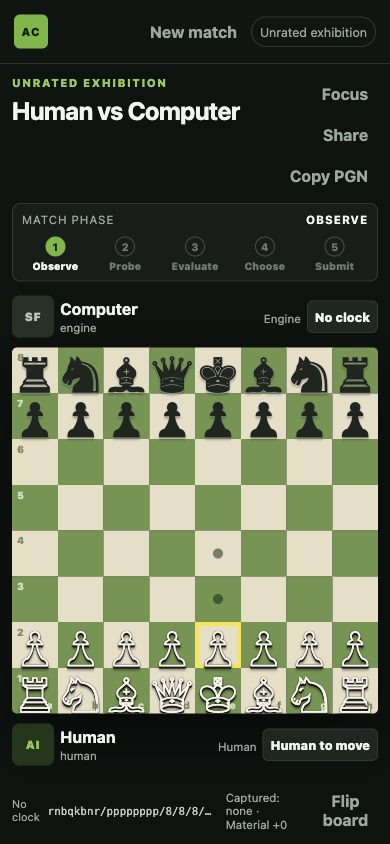
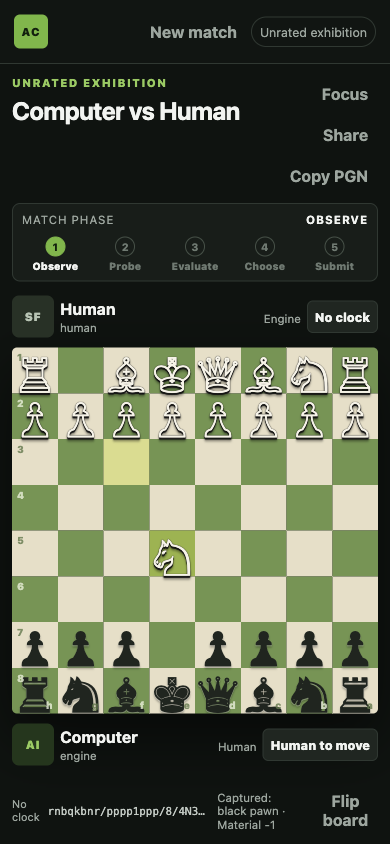
test: capture mobile human black proof

diff --git a/agent-chess-build-packet-v2/docs/validation/core-exhibition-validation.md b/agent-chess-build-packet-v2/docs/validation/core-exhibition-validation.md
@@ -49,7 +49,7 @@ Playwright CLI used snapshots before refs, then local browser checks.
 | Evidence | Viewport / dimensions | Findings |
 | --- | --- | --- |
 | [human-engine-desktop.png](screenshots/human-engine-desktop.png) | 1440x900 image; board 610x610; squares 76.25x76.25; rail 440x820; gap 16px; scrollHeight/clientHeight was not retained for this earlier capture | Square board; `e2` selected; legal targets `e3`, `e4`; phase/activity visible. |
-| [human-engine-mobile.png](screenshots/human-engine-mobile.png) | 390x844 image; board 366x366; squares 45.75x45.75; rail 366px wide | Board square/untrimmed; no horizontal overflow; phase above board; activity below board. |
+| [human-engine-mobile.png](screenshots/human-engine-mobile.png) | 390x844 image; Human Black vs engine; board 366x366; squares 45.75x45.75; scrollHeight/clientHeight `1899/844` | Live pointer-drag `e7→e5` produced `POST /human-moves` `202`; engine first moved `g1f3`; Black home rank (`h8…a8`) was nearest. Board square/unclipped; horizontal overflow false; phase/activity clear; console 0 errors/warnings. Long activity/move history causes vertical scroll. |
 | [human-agent-spectator.png](screenshots/human-agent-spectator.png) | 1440x900 image; board 610x610; rows 76.25px; gap 16px; scrollHeight/clientHeight `905/900`; horizontal overflow `false` | Public 12-ply human-agent activity visibly includes accepted candidate plus rationale. DOM inspection counted exactly 64 disabled square controls. Screenshot does not itself prove count. |
 
 After favicon fix, browser console: 0 errors, 0 warnings. Dynamic network requests observed only successful `GET /api/matches/:id` (200); match create POST was 201. Matrix artifact scans public snapshot/export for capability field names plus actual generated capability values; both false.
@@ -58,7 +58,7 @@ After favicon fix, browser console: 0 errors, 0 warnings. Dynamic network reques
 
 - Step 1: install PASS; full tests PASS; audit BLOCKED externally.
 - Step 2: PASS; both human colors and generic public agent reached required three accepted turns.
-- Step 3: PARTIAL; click plus legal target browser proof, deterministic drag/promotion fixture proof, abort/resign/export/PGN/observer matrix proof. Manual Black browser orientation/touch-device proof still absent.
+- Step 3: PARTIAL; click plus legal-target browser proof, live mobile Human Black pointer-drag/orientation proof, deterministic promotion fixture proof, abort/resign/export/PGN/observer matrix proof. Native touch-device promotion flow remains fixture-only.
 - Step 4: PASS for deterministic human-agent 12-ply live API/WebSocket matrix plus public browser activity screenshot; no private rationale is exposed.
 - Step 5: PARTIAL; required desktop/mobile screenshots prove 1:1 geometry. Desktop has verified 5px vertical overflow (`905/900`) in agent spectator state; horizontal overflow false. No dark-bar/seam pixel-analysis artifact.
 - Step 6: this report records exact evidence and gaps.

diff --git a/.superpowers/sdd/task-8-report.md b/.superpowers/sdd/task-8-report.md
@@ -10,6 +10,6 @@ Detailed evidence: `agent-chess-build-packet-v2/docs/validation/core-exhibition-
 
 Completed: 161/161 full suite; White/Black human 3-turn smokes; generic public-agent 3-turn smoke; deterministic human-agent 12-ply proof; abort/resign/export/observer/spectator matrix; desktop/mobile/spectator evidence.
 
-Blocked: `npm audit --audit-level=high` external DNS/approval boundary. Manual Black touch-device/orientation proof remains unrun; promotion is deterministic fixture proof. Do not accept next plan yet.
+Blocked: `npm audit --audit-level=high` external DNS/approval boundary. Live mobile Human Black pointer-drag/orientation proof passed; promotion remains deterministic fixture proof. Do not accept next plan yet.
 
 Current validation replaces prior checkpoint claims. See detailed report for all commands, evidence, limitations, and exact match IDs.
